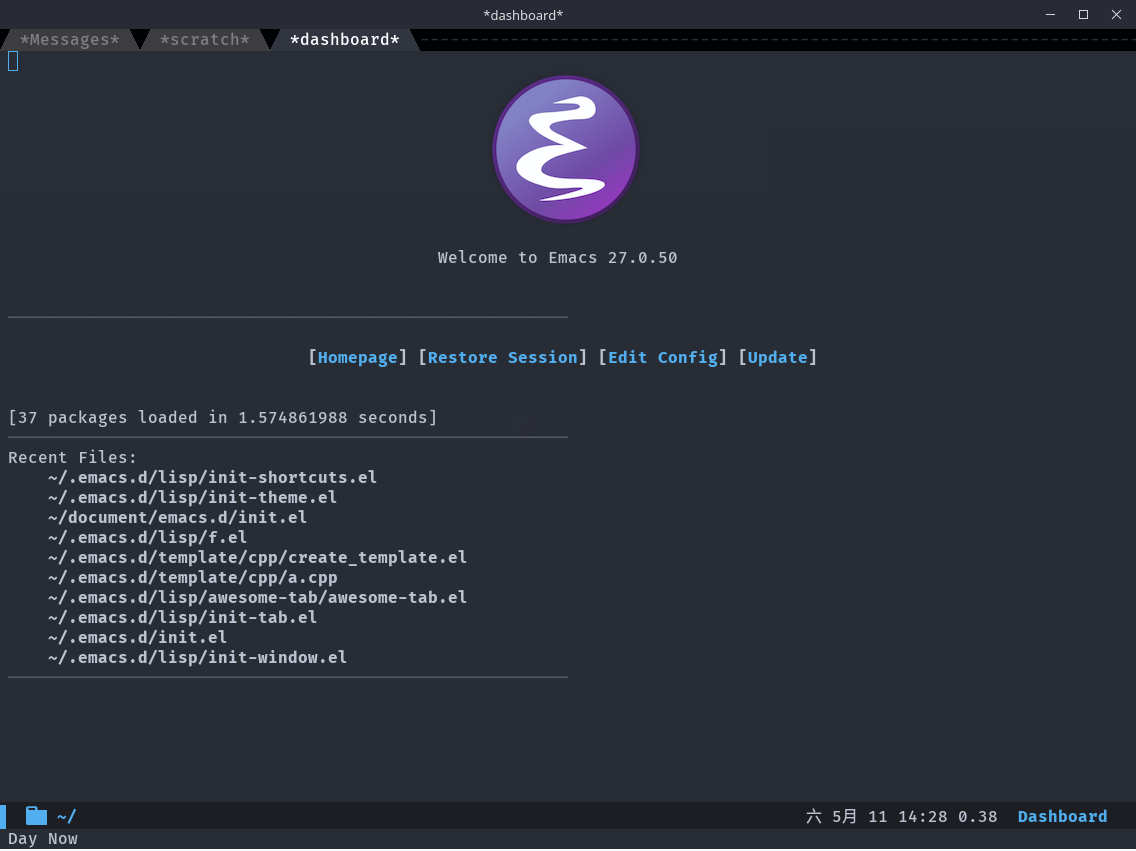
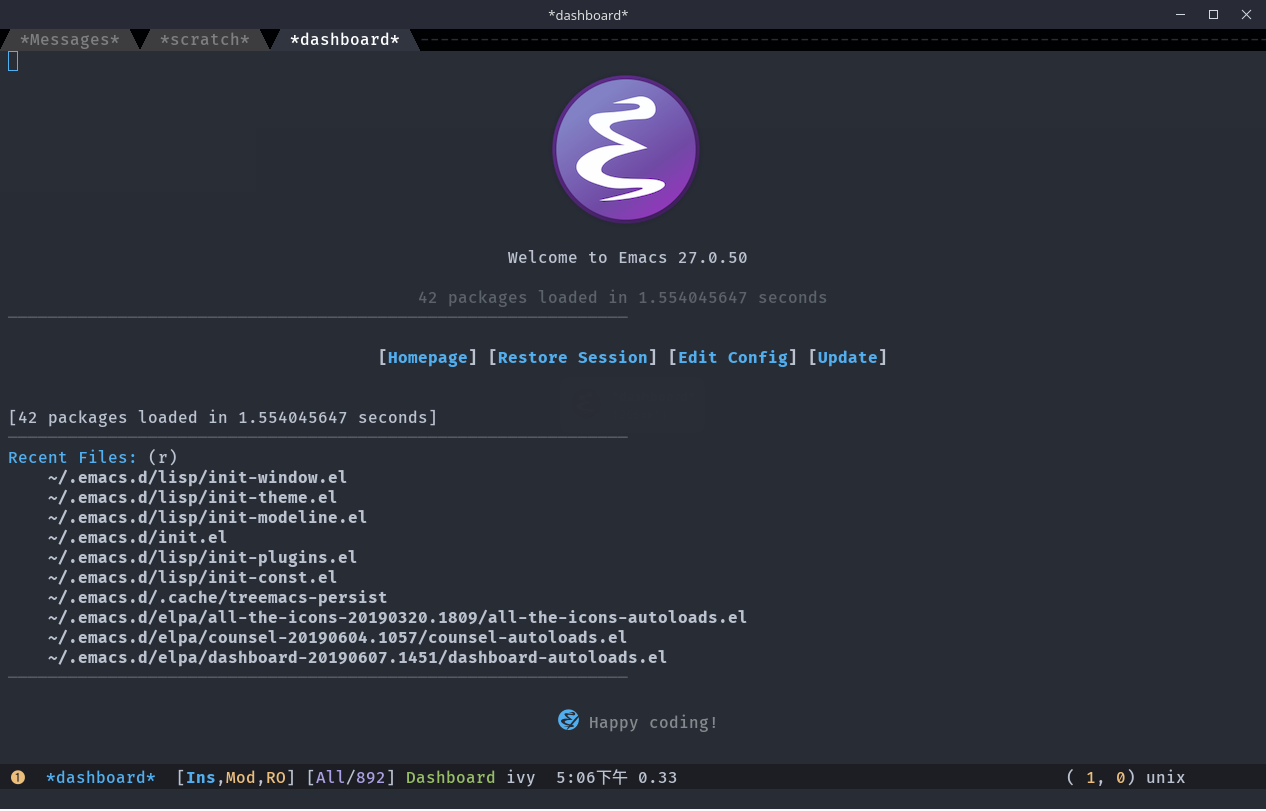
Changed modeline
Replaced doom-modeline by zilongshanren's modeline

diff --git a/README.md b/README.md
@@ -29,4 +29,4 @@ You can use FiraCode font in this config by command `M-x fira-code-mode RET` if 
 ## Screenshot
 ![screenshot1](screenshots/screenshot1.png)
 ![screenshot2](screenshots/screenshot2.png)
-![firacode](screenshots/firacode.png)
+![code](screenshots/code.png)
